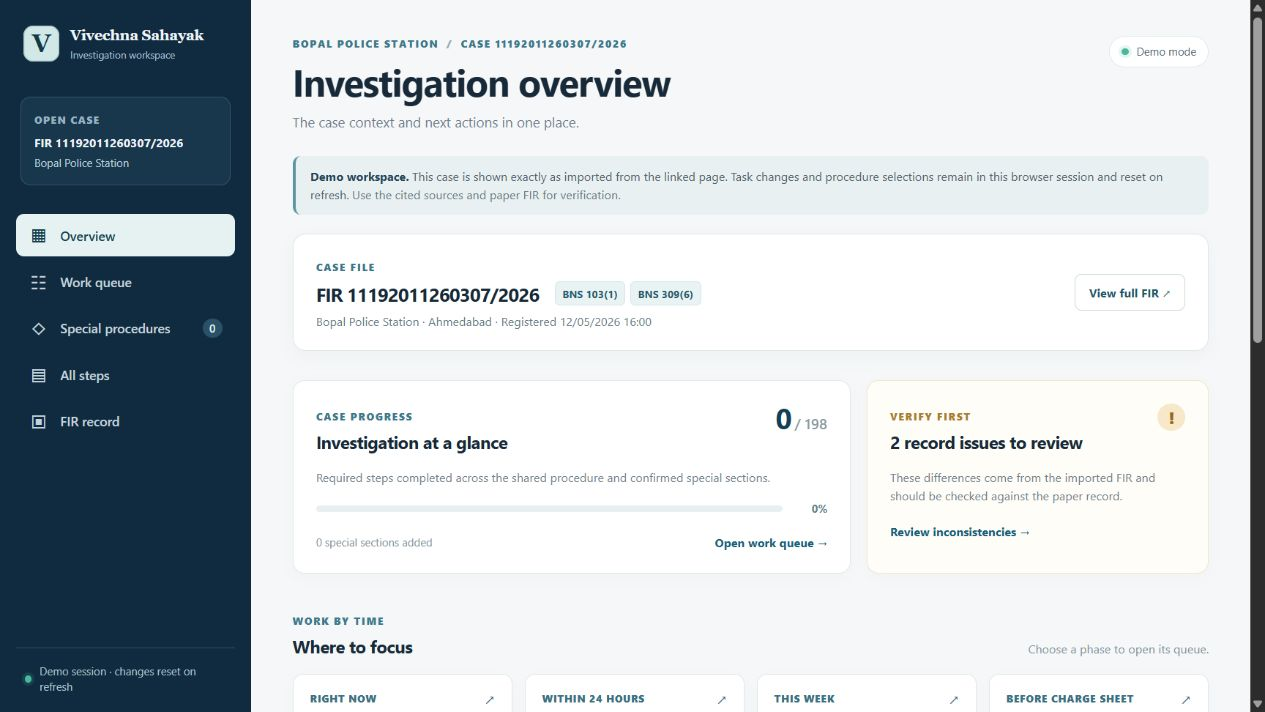
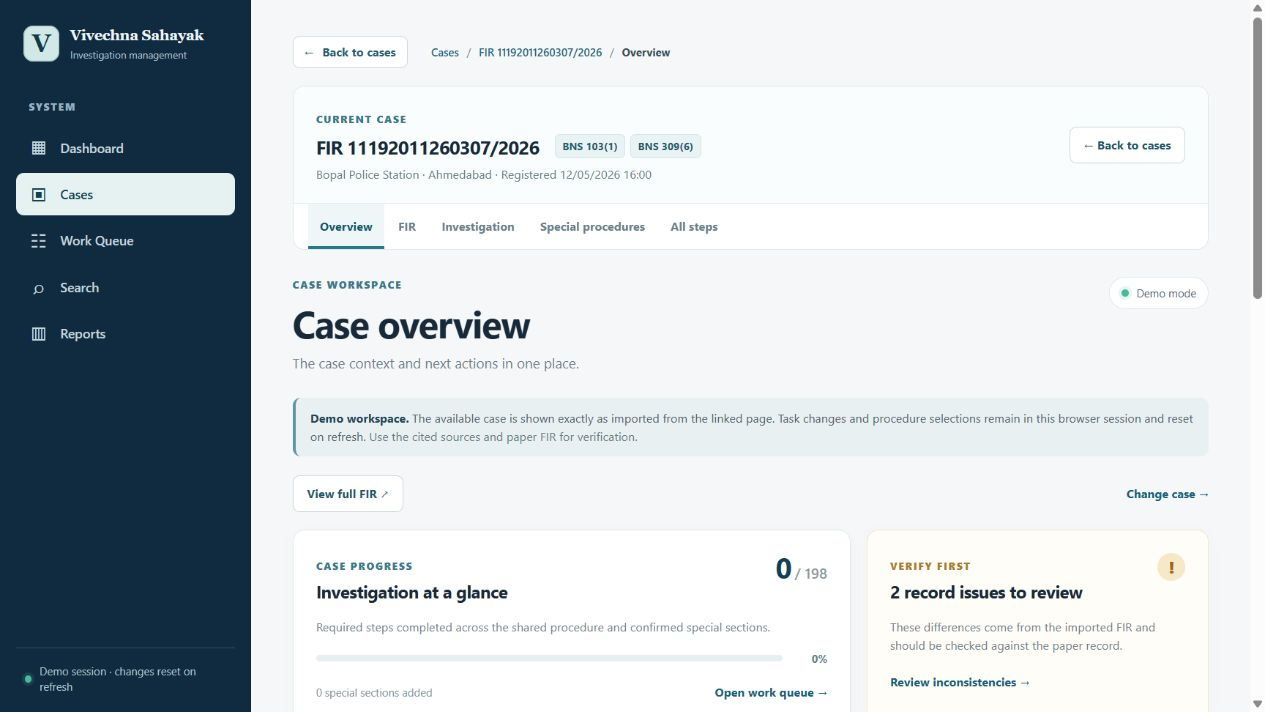
Separate system navigation from the case workspace

diff --git a/src/App.tsx b/src/App.tsx
@@ -1,19 +1,12 @@
-import { useEffect, useMemo, useState } from 'react'
+import { useEffect, useMemo, useRef, useState } from 'react'
 import { adapter, isDemoMode } from './lib/backend'
 import { activeSteps, areaForStep, countByTier, displayTitle, isRobberyStep, MODULES, PHASES, searchableText, suggestedModules, TIERS } from './lib/investigation'
 import type { InvestigationRecord, InvestigationStep, ModuleId, Phase, StepArea, TaskProgress, Tier } from './types'
 
-type View = 'overview' | 'queue' | 'special' | 'library' | 'fir'
+import { CASE_ID, CASE_NAV, SYSTEM_NAV, useNavigation } from './lib/navigation'
+import type { CaseView } from './lib/navigation'
 type DetailTab = 'action' | 'legal' | 'sources'
 
-const CASE_ID = '11192011260307-2026'
-const NAV: { id: View; label: string; icon: string }[] = [
-  { id: 'overview', label: 'Overview', icon: '▦' },
-  { id: 'queue', label: 'Work queue', icon: '☷' },
-  { id: 'special', label: 'Special procedures', icon: '◇' },
-  { id: 'library', label: 'All steps', icon: '▤' },
-  { id: 'fir', label: 'FIR record', icon: '▣' },
-]
 
 function Field({ label, value }: { label: string; value?: string | null }) {
   return <div className="field"><span className="field-label">{label}</span><span className="field-value">{value || 'Not recorded'}</span></div>
@@ -113,10 +106,18 @@ export default function App() {
   const [record, setRecord] = useState<InvestigationRecord | null>(null)
   const [loadError, setLoadError] = useState('')
   const [saveError, setSaveError] = useState('')
-  const [view, setView] = useState<View>('overview')
+  const { route, go, back, backLabel, canGoBack } = useNavigation()
+  const view = route.scope === 'case' ? route.view : null
+  const systemView = route.scope === 'system' ? route.view : null
+  const pageTitle = useRef<HTMLHeadingElement>(null)
+  const [systemQuery, setSystemQuery] = useState('')
+  const [caseQuery, setCaseQuery] = useState('')
   const [phase, setPhase] = useState<Phase>('now')
   const [tier, setTier] = useState<Tier>('MUST_DO')
-  const [query, setQuery] = useState('')
+  const [queueQuery, setQueueQuery] = useState('')
+  const [libraryQuery, setLibraryQuery] = useState('')
+  const query = view === 'library' ? libraryQuery : queueQuery
+  const setQuery = view === 'library' ? setLibraryQuery : setQueueQuery
   const [hideDone, setHideDone] = useState(false)
   const [libraryArea, setLibraryArea] = useState<StepArea | 'all'>('all')
   const [selectedModule, setSelectedModule] = useState<ModuleId>('heinous')
@@ -124,6 +125,7 @@ export default function App() {
   const [busy, setBusy] = useState(false)
 
   useEffect(() => { adapter.load(CASE_ID).then(setRecord).catch((error: Error) => setLoadError(error.message)) }, [])
+  useEffect(() => { pageTitle.current?.focus({ preventScroll: true }) }, [route, record !== null])
   const data = record?.case
   const modules = record?.confirmedModules || []
   const progress = record?.progress || {}
@@ -155,39 +157,72 @@ export default function App() {
     } catch (error) { setSaveError((error as Error).message) } finally { setBusy(false) }
   }
 
-  const navigate = (next: View) => { setView(next); setQuery(''); window.scrollTo({ top: 0, behavior: 'smooth' }) }
+  const navigate = (next: CaseView) => go({ scope: 'case', view: next })
 
   if (loadError) return <div className="boot-state"><div className="boot-card"><h1>Case unavailable</h1><p>{loadError}</p><button type="button" onClick={() => window.location.reload()}>Try again</button></div></div>
   if (!data) return <div className="boot-state"><div className="boot-card"><div className="loading-dot" /><p>Opening investigation workspace…</p></div></div>
 
   const firField = (name: string) => data.fir.fields.find((field) => field.k === name)?.v
   const currentPhase = PHASES.find((item) => item.id === phase)!
+  const activeSystemView = view ? 'cases' : systemView
+  const caseTitles = { overview: 'Case overview', queue: 'Investigation', special: 'Special procedures', library: 'All investigation steps', fir: 'FIR record' }
+  const systemTitles = { dashboard: 'Dashboard', cases: 'Cases', 'work-queue': 'Work Queue', search: 'Search', reports: 'Reports' }
+  const title = view ? caseTitles[view] : systemTitles[systemView!]
+  const subtitle = view
+    ? { overview: 'The case context and next actions in one place.', queue: 'Work through this case’s steps by time and priority.', special: 'Review additional procedures before adding them to this case.', library: 'Search every imported step and its source material.', fir: 'Read the full structured record and original FIR text.' }[view]
+    : { dashboard: 'Your cases and investigation work at a glance.', cases: 'Select a case to enter its investigation workspace.', 'work-queue': 'Investigation work across the available cases.', search: 'Find a case or a procedure in the available records.', reports: 'Progress and record quality across the available cases.' }[systemView!]
+  const searchTerm = (systemView === 'cases' ? caseQuery : systemQuery).toLocaleLowerCase().trim()
+  const caseMatches = !searchTerm || [data.fir.fir_number, data.fir.police_station, ...data.fir.sections_stated, data.fir_text].join(' ').toLocaleLowerCase().includes(searchTerm)
+  const searchSteps = searchTerm ? data.steps.filter((step) => searchableText(step).includes(searchTerm)) : []
+  const doneSteps = caseSteps.filter((step) => progress[step.id]?.done).length
+  const openNow = caseSteps.filter((step) => step.phase === 'now' && step.triage === 'MUST_DO' && !progress[step.id]?.done).length
 
   return <div className="app-shell">
-    <aside className="sidebar"><div className="brand"><div className="brand-mark">V</div><div><strong>Vivechna Sahayak</strong><small>Investigation workspace</small></div></div><div className="sidebar-case"><small>OPEN CASE</small><strong>FIR {data.fir.fir_number}</strong><span>{data.fir.police_station}</span></div><nav aria-label="Main navigation">{NAV.map((item) => <button key={item.id} className={view === item.id ? 'active' : ''} type="button" onClick={() => navigate(item.id)}><span className="nav-icon" aria-hidden="true">{item.icon}</span>{item.label}{item.id === 'special' && <span className="nav-badge">{modules.length}</span>}</button>)}</nav><div className="sidebar-bottom"><span className="status-dot" />{isDemoMode ? 'Demo session · changes reset on refresh' : 'Connected to case service'}</div></aside>
+    <aside className="sidebar"><div className="brand"><div className="brand-mark">V</div><div><strong>Vivechna Sahayak</strong><small>Investigation management</small></div></div><p className="sidebar-label">SYSTEM</p><nav aria-label="System navigation">{SYSTEM_NAV.map((item) => <button key={item.id} className={activeSystemView === item.id ? 'active' : ''} aria-current={activeSystemView === item.id ? 'page' : undefined} type="button" onClick={() => go({ scope: 'system', view: item.id })}><span className="nav-icon" aria-hidden="true">{item.icon}</span>{item.label}</button>)}</nav><div className="sidebar-bottom"><span className="status-dot" />{isDemoMode ? 'Demo session · changes reset on refresh' : 'Connected to case service'}</div></aside>
 
     <div className="main-shell"><header className="mobile-header"><div className="brand-mark">V</div><strong>Vivechna Sahayak</strong><span>{isDemoMode ? 'DEMO' : 'LIVE'}</span></header><main className="page">
-      <div className="page-heading"><div><p className="eyebrow">BOPAL POLICE STATION <span> / </span> CASE {data.fir.fir_number}</p><h1>{view === 'overview' ? 'Investigation overview' : view === 'queue' ? 'Work queue' : view === 'special' ? 'Special procedures' : view === 'library' ? 'All investigation steps' : 'FIR record'}</h1><p className="heading-subtitle">{view === 'overview' ? 'The case context and next actions in one place.' : view === 'queue' ? 'Work through the steps by time and priority.' : view === 'special' ? 'Review additional procedures before adding them to this case.' : view === 'library' ? 'Search every imported step and its source material.' : 'Read the full structured record and original FIR text.'}</p></div><div className="top-status"><span className="status-dot" />{isDemoMode ? 'Demo mode' : 'Connected'}</div></div>
-      {isDemoMode && <div className="demo-banner"><strong>Demo workspace.</strong> This case is shown exactly as imported from the linked page. Task changes and procedure selections remain in this browser session and reset on refresh. <span>Use the cited sources and paper FIR for verification.</span></div>}
+      <div className="navigation-bar">{(view || canGoBack) && <button type="button" className="back-button" onClick={back}><span aria-hidden="true">←</span> Back to {backLabel}</button>}{view && <nav className="breadcrumbs" aria-label="Breadcrumb"><button type="button" onClick={() => go({ scope: 'system', view: 'cases' })}>Cases</button><span aria-hidden="true">/</span><button type="button" onClick={() => navigate('overview')}>FIR {data.fir.fir_number}</button><span aria-hidden="true">/</span><span aria-current="page">{CASE_NAV.find((item) => item.id === view)?.label}</span></nav>}</div>
+      {view && <div className="case-workspace"><section className="case-header"><div className="case-main"><span className="section-label">CURRENT CASE</span><div className="case-title-line"><h2>FIR {data.fir.fir_number}</h2><div className="section-chips">{data.fir.sections_stated.map((section) => <span key={section}>{section}</span>)}</div></div><p>{data.fir.police_station} · {firField('District')} · Registered {firField('Date & time FIR registered')}</p></div><div className="case-actions"><button type="button" className="outline-button" onClick={() => go({ scope: 'system', view: 'cases' })}>← Back to cases</button></div></section><nav className="case-nav" aria-label="Case navigation">{CASE_NAV.map((item) => <button type="button" key={item.id} aria-label={item.label} className={view === item.id ? 'selected' : ''} aria-current={view === item.id ? 'page' : undefined} onClick={() => navigate(item.id)}>{item.label}{item.id === 'special' && modules.length > 0 && <span>{modules.length}</span>}</button>)}</nav></div>}
+      <div className="page-heading"><div><p className="eyebrow">{view ? 'CASE WORKSPACE' : 'VIVECHNA SAHAYAK / SYSTEM'}</p><h1 ref={pageTitle} tabIndex={-1}>{title}</h1><p className="heading-subtitle">{subtitle}</p></div><div className="top-status"><span className="status-dot" />{isDemoMode ? 'Demo mode' : 'Connected'}</div></div>
+      {isDemoMode && <div className="demo-banner"><strong>Demo workspace.</strong> The available case is shown exactly as imported from the linked page. Task changes and procedure selections remain in this browser session and reset on refresh. <span>Use the cited sources and paper FIR for verification.</span></div>}
       {saveError && <div className="error-banner" role="alert"><strong>Change was not saved.</strong> {saveError}<button type="button" onClick={() => setSaveError('')}>Dismiss</button></div>}
 
-      <section className="case-header"><div className="case-main"><span className="section-label">CASE FILE</span><div className="case-title-line"><h2>FIR {data.fir.fir_number}</h2><div className="section-chips">{data.fir.sections_stated.map((section) => <span key={section}>{section}</span>)}</div></div><p>{data.fir.police_station} · {firField('District')} · Registered {firField('Date & time FIR registered')}</p></div><div className="case-actions"><button type="button" className="outline-button" onClick={() => navigate('fir')}>View full FIR <span aria-hidden="true">↗</span></button></div></section>
+      {!view && <p className="dataset-note">{isDemoMode ? 'Demo data: one imported case is available.' : 'One case is available through the current case adapter.'}</p>}
+
+      {systemView === 'dashboard' && <>
+        <div className="system-metrics">
+          <button type="button" onClick={() => go({ scope: 'system', view: 'cases' })}><span>Available cases</span><strong>1</strong><small>Browse cases →</small></button>
+          <button type="button" onClick={() => go({ scope: 'system', view: 'work-queue' })}><span>Required right now</span><strong>{openNow}</strong><small>Open Work Queue →</small></button>
+          <button type="button" onClick={() => navigate('fir')}><span>Record issues to review</span><strong>{warnings.length - reviewedWarnings.size}</strong><small>Review case record →</small></button>
+        </div>
+        <section className="section-block"><div className="section-heading"><div><span className="section-label">AVAILABLE CASES</span><h2>Continue an investigation</h2></div><button type="button" className="text-button" onClick={() => go({ scope: 'system', view: 'cases' })}>View cases →</button></div><div className="case-list-card"><div><span className="section-label">FIR</span><h2>{data.fir.fir_number}</h2><p>{data.fir.police_station} · {data.fir.sections_stated.join(' · ')}</p><ProgressBar done={doneMustDo} total={mustDo.length} /></div><button type="button" className="primary-button" onClick={() => navigate('overview')}>Open case →</button></div></section>
+      </>}
+
+      {systemView === 'cases' && <section className="section-block first-block"><div className="filter-bar"><div className="search-wrap"><span aria-hidden="true">⌕</span><input aria-label="Find a case" placeholder="Find by FIR, station, offence or record text…" value={caseQuery} onChange={(event) => setCaseQuery(event.target.value)} /></div><span className="result-count">{caseMatches ? 1 : 0} case found</span></div>{caseMatches ? <div className="case-list-card"><div><span className="section-label">FIR</span><h2>{data.fir.fir_number}</h2><p>{data.fir.police_station} · {firField('District')}</p><div className="section-chips">{data.fir.sections_stated.map((section) => <span key={section}>{section}</span>)}</div><p className="case-list-meta">{openNow} required right-now steps · {warnings.length - reviewedWarnings.size} record issues</p></div><button type="button" className="primary-button" onClick={() => navigate('overview')}>Open case →</button></div> : <div className="empty-state"><strong>No case matches your search.</strong><p>Try another FIR number, police station or offence.</p></div>}</section>}
+
+      {systemView === 'work-queue' && <div className="queue-case-context"><div><span className="section-label">WORK FROM CASE</span><strong>FIR {data.fir.fir_number}</strong><span>{data.fir.police_station}</span></div><button type="button" className="outline-button" onClick={() => navigate('queue')}>Open case investigation →</button></div>}
+
+      {systemView === 'search' && <section className="section-block first-block"><div className="filter-bar"><div className="search-wrap"><span aria-hidden="true">⌕</span><input aria-label="Search cases and procedures" placeholder="Search FIR, offence, procedure or legal source…" value={systemQuery} onChange={(event) => setSystemQuery(event.target.value)} /></div></div>{!searchTerm ? <div className="empty-state"><strong>Search cases and investigation procedures.</strong><p>Enter a FIR number, station, offence, task or legal section.</p></div> : <><div className="section-heading"><h2>Cases</h2><span className="result-count">{caseMatches ? 1 : 0} matching case</span></div>{caseMatches ? <div className="case-list-card"><div><h2>FIR {data.fir.fir_number}</h2><p>{data.fir.police_station}</p></div><button type="button" className="primary-button" onClick={() => navigate('fir')}>Open FIR →</button></div> : <p className="muted">No matching case record.</p>}<div className="section-heading search-results-heading"><div><h2>Procedure results</h2><p>Source library for FIR {data.fir.fir_number}</p></div><span className="result-count">{searchSteps.length} matching steps</span></div><StepResults key={searchTerm} steps={searchSteps} progress={progress} onProgress={saveProgress} editable={() => false} limit={20} /></>}</section>}
+
+      {systemView === 'reports' && <><section className="panel"><div className="panel-head"><div><span className="section-label">AVAILABLE CASE SUMMARY</span><h2>Investigation progress</h2></div><span className="metric-large">{doneSteps}<small> / {caseSteps.length}</small></span></div><p className="muted">Completed active steps across the available case and confirmed special procedures.</p><ProgressBar done={doneSteps} total={caseSteps.length} /><div className="report-rows">{PHASES.map((item) => { const steps = caseSteps.filter((step) => step.phase === item.id); return <div key={item.id}><span>{item.label}</span><strong>{steps.filter((step) => progress[step.id]?.done).length} / {steps.length} completed</strong></div> })}</div></section><section className="section-block"><div className="section-heading"><h2>Case report</h2></div><div className="case-list-card"><div><h2>FIR {data.fir.fir_number}</h2><p>{data.fir.police_station}</p><p>{doneMustDo} of {mustDo.length} required steps completed · {modules.length} special sections confirmed · {warnings.length - reviewedWarnings.size} open record issues</p></div><button type="button" className="outline-button" onClick={() => navigate('overview')}>View case →</button></div></section></>}
 
       {view === 'overview' && <>
+        <div className="case-overview-actions"><button type="button" className="outline-button" onClick={() => navigate('fir')}>View full FIR ↗</button><button type="button" className="text-button" onClick={() => go({ scope: 'system', view: 'cases' })}>Change case →</button></div>
         <div className="overview-grid"><section className="panel progress-panel"><div className="panel-head"><div><span className="section-label">CASE PROGRESS</span><h2>Investigation at a glance</h2></div><span className="metric-large">{doneMustDo}<small> / {mustDo.length}</small></span></div><p className="muted">Required steps completed across the shared procedure and confirmed special sections.</p><ProgressBar done={doneMustDo} total={mustDo.length} /><div className="progress-foot"><span>{modules.length} special sections added</span><button type="button" className="text-button" onClick={() => navigate('queue')}>Open work queue →</button></div></section><section className="panel alert-panel"><div className="panel-head"><div><span className="section-label amber">VERIFY FIRST</span><h2>{warnings.length - reviewedWarnings.size} record {warnings.length - reviewedWarnings.size === 1 ? 'issue' : 'issues'} to review</h2></div><div className="alert-symbol">!</div></div><p className="muted">These differences come from the imported FIR and should be checked against the paper record.</p><button type="button" className="text-button" onClick={() => navigate('fir')}>Review inconsistencies →</button></section></div>
         <section className="section-block"><div className="section-heading"><div><span className="section-label">WORK BY TIME</span><h2>Where to focus</h2></div><p>Choose a phase to open its queue.</p></div><div className="phase-grid">{PHASES.map((item) => { const phaseMust = caseSteps.filter((step) => step.phase === item.id && step.triage === 'MUST_DO'); const phaseDone = phaseMust.filter((step) => progress[step.id]?.done).length; return <button type="button" className="phase-card" key={item.id} onClick={() => { setPhase(item.id); setTier('MUST_DO'); navigate('queue') }}><span className="phase-card-top"><span>{item.label}</span><span aria-hidden="true">↗</span></span><strong>{phaseMust.length - phaseDone}<small> open</small></strong><span>{item.description}</span><span className="phase-mini-bar"><i style={{ width: `${phaseMust.length ? phaseDone / phaseMust.length * 100 : 0}%` }} /></span></button> })}</div></section>
         <section className="section-block"><div className="section-heading"><div><span className="section-label">NEXT ACTIONS</span><h2>Required right now</h2></div><button type="button" className="text-button" onClick={() => { setPhase('now'); setTier('MUST_DO'); navigate('queue') }}>See all right-now steps →</button></div><div className="step-list overview-steps">{caseSteps.filter((step) => step.phase === 'now' && step.triage === 'MUST_DO' && !progress[step.id]?.done).slice(0, 3).map((step) => <StepCard compact key={step.id} step={step} progress={progress[step.id]} onProgress={saveProgress} />)}</div></section>
         <section className="section-block"><div className="section-heading"><div><span className="section-label">ADDITIONAL PROCEDURE</span><h2>Review for this case</h2></div><button type="button" className="text-button" onClick={() => navigate('special')}>Open special sections →</button></div><div className="module-grid">{MODULES.map((module) => <button type="button" className="module-tile" key={module.id} onClick={() => { setSelectedModule(module.id); navigate('special') }}><span className="module-icon">{module.id === 'heinous' ? 'H' : module.id === 'murder' ? 'M' : 'T'}</span><strong>{module.label}</strong><span>{modules.includes(module.id) ? 'Added to queue' : suggestions.includes(module.id) ? 'Suggested · review needed' : 'Available to review'}</span><span className="module-arrow">→</span></button>)}</div></section>
       </>}
 
-      {view === 'queue' && <><section className="section-block first-block"><div className="section-heading"><div><span className="section-label">ACTIVE CASE</span><h2>Investigation queue</h2></div><span className="result-count">{caseSteps.length} active steps</span></div><div className="phase-tabs" role="tablist" aria-label="Investigation phase">{PHASES.map((item) => { const count = caseSteps.filter((step) => step.phase === item.id && step.triage === tier).length; return <button key={item.id} role="tab" type="button" aria-selected={phase === item.id} className={phase === item.id ? 'selected' : ''} onClick={() => setPhase(item.id)}><span>{item.label}</span><strong>{count}</strong></button> })}</div><div className="filter-bar"><div className="search-wrap"><span aria-hidden="true">⌕</span><input aria-label="Search active steps" placeholder="Search steps, source or owner…" value={query} onChange={(event) => setQuery(event.target.value)} /></div><div className="tier-switch" role="group" aria-label="Priority">{TIERS.map((item) => <button key={item.id} type="button" className={tier === item.id ? 'selected' : ''} aria-pressed={tier === item.id} onClick={() => setTier(item.id)}>{item.label}</button>)}</div><label className="hide-toggle"><input type="checkbox" checked={hideDone} onChange={(event) => setHideDone(event.target.checked)} /> Hide done</label></div><div className="queue-summary"><div><strong>{currentPhase.label}</strong><span>{currentPhase.description}</span></div><span>{queueSteps.length} {tier.toLowerCase().replace('_', ' ')} steps shown</span></div><StepResults steps={queueSteps} progress={progress} onProgress={saveProgress} editable={() => !busy} group /></section></>}
+      {(view === 'queue' || systemView === 'work-queue') && <><section className="section-block first-block"><div className="section-heading"><div><span className="section-label">{view ? 'ACTIVE CASE' : 'AVAILABLE INVESTIGATION WORK'}</span><h2>Investigation queue</h2></div><span className="result-count">{caseSteps.length} active steps</span></div><div className="phase-tabs" role="tablist" aria-label="Investigation phase">{PHASES.map((item) => { const count = caseSteps.filter((step) => step.phase === item.id && step.triage === tier).length; return <button key={item.id} role="tab" type="button" aria-selected={phase === item.id} className={phase === item.id ? 'selected' : ''} onClick={() => setPhase(item.id)}><span>{item.label}</span><strong>{count}</strong></button> })}</div><div className="filter-bar"><div className="search-wrap"><span aria-hidden="true">⌕</span><input aria-label="Search active steps" placeholder="Search steps, source or owner…" value={query} onChange={(event) => setQuery(event.target.value)} /></div><div className="tier-switch" role="group" aria-label="Priority">{TIERS.map((item) => <button key={item.id} type="button" className={tier === item.id ? 'selected' : ''} aria-pressed={tier === item.id} onClick={() => setTier(item.id)}>{item.label}</button>)}</div><label className="hide-toggle"><input type="checkbox" checked={hideDone} onChange={(event) => setHideDone(event.target.checked)} /> Hide done</label></div><div className="queue-summary"><div><strong>{currentPhase.label}</strong><span>{currentPhase.description}</span></div><span>{queueSteps.length} {tier.toLowerCase().replace('_', ' ')} steps shown</span></div><StepResults steps={queueSteps} progress={progress} onProgress={saveProgress} editable={() => !busy} group /></section></>}
 
       {view === 'special' && <><section className="section-block first-block"><div className="section-heading"><div><span className="section-label">CRIME-SPECIFIC WORK</span><h2>Additional steps, kept separate</h2></div></div><p className="section-intro">The shared queue covers general investigation work. Review each extra section below and add it to this case only when it applies. The source case suggests sections from its stated offences; confirmation remains with the investigator.</p><div className="special-tabs" role="tablist" aria-label="Special procedure">{MODULES.map((module) => <button key={module.id} type="button" role="tab" aria-selected={selectedModule === module.id} className={selectedModule === module.id ? 'selected' : ''} onClick={() => setSelectedModule(module.id)}><span>{module.label}</span>{modules.includes(module.id) && <span className="selected-dot" />}</button>)}</div><div className="module-detail"><div className="module-detail-top"><div><span className="section-label">{modules.includes(selectedModule) ? 'CONFIRMED FOR CASE' : suggestions.includes(selectedModule) ? 'SUGGESTED FROM FIR · NEEDS CONFIRMATION' : 'AVAILABLE TO REVIEW'}</span><h2>{MODULES.find((module) => module.id === selectedModule)?.label}</h2><p>{MODULES.find((module) => module.id === selectedModule)?.description}</p></div><button type="button" className={modules.includes(selectedModule) ? 'outline-button' : 'primary-button'} disabled={busy} onClick={() => toggleModule(selectedModule)}>{modules.includes(selectedModule) ? 'Remove from queue' : 'Add to this case'}</button></div>{selectedModule === 'heinous' && <div className="linked-note"><strong>Linked shared step:</strong> The imported “Draw and Annotate the Crime Scene Sketch” step includes a to-scale instruction for heinous crimes. It remains in the shared queue so its ordinary scene-sketch work is not duplicated.</div>}{selectedModule === 'theft' && <div className="linked-note"><strong>Robbery in this FIR:</strong> Robbery-specific steps are marked “Robbery” within this section. Confirm each step’s applicability to the case before acting.</div>}<div className="module-count"><strong>{specialSteps.length} source-linked additional steps</strong><span>{modules.includes(selectedModule) ? 'Included in the active queue' : 'Preview only until confirmed'}</span></div><StepResults steps={specialSteps} progress={progress} onProgress={saveProgress} editable={() => modules.includes(selectedModule) && !busy} limit={25} /></div></section></>}
 
       {view === 'library' && <section className="section-block first-block"><div className="section-heading"><div><span className="section-label">COMPLETE SOURCE LIBRARY</span><h2>All {data.steps.length} imported steps</h2></div><span className="result-count">{countByTier(data.steps).MUST_DO} must do · {countByTier(data.steps).SHOULD_DO} should do · {countByTier(data.steps).REFERENCE} reference</span></div><p className="section-intro">Every imported step remains here, including material for other crime types. Only shared steps and confirmed special sections enter the active queue.</p><div className="filter-bar library-filters"><div className="search-wrap"><span aria-hidden="true">⌕</span><input aria-label="Search all steps" placeholder="Search title, section, source or text…" value={query} onChange={(event) => setQuery(event.target.value)} /></div><select aria-label="Filter by section" value={libraryArea} onChange={(event) => setLibraryArea(event.target.value as StepArea | 'all')}><option value="all">Every section</option><option value="core">Shared procedure</option>{MODULES.map((module) => <option key={module.id} value={module.id}>{module.label}</option>)}<option value="library">Other source material</option></select><label className="hide-toggle"><input type="checkbox" checked={hideDone} onChange={(event) => setHideDone(event.target.checked)} /> Hide done</label></div><div className="queue-summary"><strong>{librarySteps.length} matching steps</strong><span>Showing {Math.min(librarySteps.length, 40)} initially</span></div><StepResults steps={librarySteps} progress={progress} onProgress={saveProgress} editable={(step) => areaForStep(step) === 'core' || modules.includes(areaForStep(step) as ModuleId)} /></section>}
 
       {view === 'fir' && <><section className="section-block first-block"><div className="section-heading"><div><span className="section-label">RECORD QUALITY</span><h2>Check before relying on this record</h2></div><span className="result-count">{warnings.length - reviewedWarnings.size} open</span></div><WarningList warnings={warnings} reviewed={reviewedWarnings} onToggle={(index) => setReviewedWarnings((old) => { const next = new Set(old); if (next.has(index)) next.delete(index); else next.add(index); return next })} /><p className="section-hint">“Mark checked” is a local review marker. It does not alter or correct the FIR.</p></section><section className="section-block"><div className="section-heading"><div><span className="section-label">STRUCTURED FIR</span><h2>Case details</h2></div></div><div className="fir-grid">{data.fir.fields.map((field, index) => <div className="fir-field" key={`${field.k}-${index}`}><span>{field.k}</span><strong>{field.v}</strong></div>)}</div></section><section className="section-block"><div className="section-heading"><div><span className="section-label">CASE NARRATIVE</span><h2>What the FIR states</h2></div></div><div className="panel narrative-panel"><p>{data.fir.narrative_summary}</p><details><summary>Read original FIR text</summary><pre>{data.fir_text}</pre></details></div></section></>}
+      {view && <div className="case-return"><button type="button" className="back-button" onClick={back}>← Back to {backLabel}</button><button type="button" className="text-button" onClick={() => go({ scope: 'system', view: 'cases' })}>Back to cases →</button></div>}
     </main><footer className="page-footer"><span>Vivechna Sahayak · {isDemoMode ? 'Local prototype' : 'Connected workspace'}</span><span>Source citations and case facts should be verified before operational use.</span></footer></div>
-    <nav className="mobile-nav" aria-label="Mobile navigation">{NAV.map((item) => <button type="button" key={item.id} className={view === item.id ? 'active' : ''} onClick={() => navigate(item.id)}><span aria-hidden="true">{item.icon}</span><small>{item.id === 'special' ? 'Special' : item.id === 'library' ? 'All steps' : item.id === 'fir' ? 'FIR' : item.label}</small></button>)}</nav>
+    <nav className="mobile-nav" aria-label="Mobile system navigation">{SYSTEM_NAV.map((item) => <button type="button" key={item.id} className={activeSystemView === item.id ? 'active' : ''} aria-current={activeSystemView === item.id ? 'page' : undefined} onClick={() => go({ scope: 'system', view: item.id })}><span aria-hidden="true">{item.icon}</span><small>{item.label}</small></button>)}</nav>
   </div>
 }

diff --git a/src/styles.css b/src/styles.css
@@ -1,6 +1,6 @@
 :root{font-family:Inter,"Segoe UI",Arial,sans-serif;color:#182a39;background:#f5f7f8;font-synthesis:none;text-rendering:optimizeLegibility;-webkit-font-smoothing:antialiased}
 *{box-sizing:border-box}
-body{margin:0;min-width:320px}
+body{margin:0;min-width:0}
 button,input,select{font:inherit}
 button{cursor:pointer}
 button:disabled,input:disabled{cursor:not-allowed;opacity:.54}
@@ -14,18 +14,11 @@ p{line-height:1.55}
 .brand-mark{width:36px;height:36px;display:grid;place-items:center;border-radius:10px;background:#d2e8e7;color:#123948;font-family:Georgia,serif;font-size:25px;font-weight:700;box-shadow:inset 0 0 0 1px #a7c9c8}
 .brand strong{display:block;font-family:Georgia,serif;font-size:15px;letter-spacing:-.02em}
 .brand small{display:block;color:#a6becb;font-size:10px;margin-top:4px}
-.sidebar-case{margin:36px 5px 29px;padding:15px 13px;border:1px solid #365266;border-radius:10px;background:#18374d}
-.sidebar-case small,.sidebar-case strong,.sidebar-case span{display:block}
-.sidebar-case small{font-size:10px;letter-spacing:.12em;color:#98b1c0;font-weight:800}
-.sidebar-case strong{font-size:12px;line-height:1.4;margin:9px 0 4px}
-.sidebar-case span{font-size:11px;color:#bdd0d8}
 .sidebar nav{display:grid;gap:4px}
 .sidebar nav button{border:0;background:transparent;color:#c3d3dc;display:flex;align-items:center;gap:12px;text-align:left;padding:12px 13px;border-radius:8px;font-size:13px;font-weight:600}
 .sidebar nav button:hover{background:#1c435b}
 .sidebar nav button.active{background:#e6f2f2;color:#103f50}
 .nav-icon{font-size:19px;line-height:1;width:20px;text-align:center;font-weight:300}
-.nav-badge{margin-left:auto;padding:2px 7px;border-radius:20px;background:#2a5267;color:#e7f2f2;font-size:11px}
-.sidebar nav button.active .nav-badge{background:#c9e3e1;color:#184657}
 .sidebar-bottom{margin-top:auto;padding:16px 9px 0;border-top:1px solid #335066;color:#a9c0ca;font-size:11px;display:flex;align-items:center;gap:8px;line-height:1.4}
 .status-dot{display:inline-block;width:7px;height:7px;border-radius:50%;background:#4ab99b;box-shadow:0 0 0 3px rgba(74,185,155,.14);flex:none}
 .main-shell{margin-left:254px;min-height:100vh;display:flex;flex-direction:column}
@@ -292,3 +285,45 @@ p{line-height:1.55}
 }
 .field-label{display:block;font-size:10px;letter-spacing:.07em;text-transform:uppercase;color:#8698a0;font-weight:800}
 .field-value{display:block;margin:4px 0 0;color:#304957}
+.sidebar-label{font-size:10px;font-weight:800;letter-spacing:.14em;color:#98b1c0;margin:38px 13px 12px}
+.navigation-bar{display:flex;flex-wrap:wrap;align-items:center;gap:12px 24px;margin-bottom:18px}
+.navigation-bar:empty{display:none}
+.back-button{display:inline-flex;align-items:center;gap:8px;padding:8px 11px;border:1px solid #cbdadd;border-radius:7px;background:#fff;color:#245d71;font-size:12px;font-weight:700}
+.back-button:hover{background:#eaf3f4}
+.breadcrumbs{display:flex;align-items:center;flex-wrap:wrap;gap:8px;font-size:11px;color:#718893}
+.breadcrumbs button{padding:3px 0;border:0;background:none;color:#24677f;font-weight:600}
+.breadcrumbs button:hover{text-decoration:underline}
+.breadcrumbs [aria-current]{color:#384f5c;font-weight:700}
+.case-workspace{background:#fff;border:1px solid #dfe7e8;border-radius:12px;margin-bottom:28px;overflow:hidden}
+.case-workspace .case-header{border:0;border-radius:0;box-shadow:none;margin:0;background:#fafdfe}
+.case-nav{display:flex;flex-wrap:wrap;gap:2px;padding:0 15px;border-top:1px solid #e4ecee}
+.case-nav button{border:0;border-bottom:3px solid transparent;background:transparent;padding:15px 12px 12px;color:#6a818d;font-size:12px;font-weight:700;white-space:nowrap}
+.case-nav button:hover{background:#f2f7f8;color:#1c6078}
+.case-nav button.selected{border-bottom-color:#237b88;color:#145770;background:#eef6f7}
+.case-nav button span{background:#dfedef;color:#276479;border-radius:20px;font-size:10px;padding:2px 6px;margin-left:7px}
+.page-heading h1:focus{outline:none}
+.dataset-note{font-size:11px;color:#6b828d;margin:0 0 23px}
+.system-metrics{display:grid;grid-template-columns:repeat(3,minmax(0,1fr));gap:15px}
+.system-metrics button{display:flex;flex-direction:column;gap:13px;align-items:flex-start;text-align:left;background:#fff;border:1px solid #dae6e9;border-radius:11px;padding:22px;color:#284958}
+.system-metrics button:hover{border-color:#87b4c1;background:#fbfefe}
+.system-metrics span{font-size:12px;font-weight:700}
+.system-metrics strong{font-size:35px;line-height:1}
+.system-metrics small{font-size:11px;color:#28738a}
+.case-list-card{display:flex;align-items:center;justify-content:space-between;gap:24px;padding:24px;background:#fff;border:1px solid #dfe7e8;border-radius:11px}
+.case-list-card>div{min-width:0;flex:1}
+.case-list-card h2{font-size:19px;overflow-wrap:anywhere;margin:6px 0 9px}
+.case-list-card p{font-size:12px;color:#69808b;margin:6px 0 12px}
+.case-list-card .progress-wrap{max-width:420px;margin-top:20px}
+.case-list-card .case-list-meta{margin-top:14px;margin-bottom:0}
+.queue-case-context{display:flex;align-items:center;justify-content:space-between;gap:16px;padding:18px 20px;background:#fff;border:1px solid #dde7e9;border-radius:10px;margin-bottom:23px}
+.queue-case-context strong,.queue-case-context>div>span{display:block}
+.queue-case-context strong{font-size:14px;margin:5px 0}
+.queue-case-context>div>span:last-child{font-size:11px;color:#728792}
+.search-results-heading{margin-top:32px}
+.case-overview-actions{display:flex;align-items:center;justify-content:space-between;gap:14px;margin-bottom:18px}
+.report-rows{margin-top:23px;display:grid}
+.report-rows>div{display:flex;justify-content:space-between;gap:12px;padding:14px 0;border-top:1px solid #e5ecee;font-size:12px;color:#69808b}
+.report-rows strong{font-weight:600;color:#345563}
+.case-return{display:flex;justify-content:space-between;align-items:center;gap:16px;margin-top:30px;padding-top:20px;border-top:1px solid #dbe6e8}
+@media(max-width:850px){.case-nav{display:grid;grid-template-columns:repeat(3,minmax(0,1fr));padding:0 9px}.case-nav button{white-space:normal}.case-nav button:focus-visible{outline-offset:-4px}}
+@media(max-width:620px){.navigation-bar{gap:10px;margin-bottom:14px}.breadcrumbs{font-size:10px;gap:6px}.case-workspace{margin-bottom:23px}.case-workspace .case-header{padding:15px}.case-nav button{font-size:11px;padding:13px 10px 10px}.system-metrics{grid-template-columns:1fr;gap:9px}.system-metrics button{display:grid;grid-template-columns:1fr auto;gap:6px;padding:17px}.system-metrics strong{grid-column:2;grid-row:1/3;font-size:29px}.case-list-card{align-items:stretch;flex-direction:column;padding:19px;gap:17px}.case-list-card h2{font-size:17px}.case-list-card>button{width:100%}.queue-case-context{align-items:stretch;flex-direction:column;padding:16px}.queue-case-context>button{width:100%}.report-rows>div{font-size:11px}.mobile-nav small{font-size:8px}}

diff --git a/src/lib/navigation.ts b/src/lib/navigation.ts
@@ -1,0 +1,77 @@
+import { useEffect, useState } from 'react'
+
+export type CaseView = 'overview' | 'queue' | 'special' | 'library' | 'fir'
+export type SystemView = 'dashboard' | 'cases' | 'work-queue' | 'search' | 'reports'
+export type Route = { scope: 'system'; view: SystemView } | { scope: 'case'; view: CaseView }
+
+export const CASE_ID = '11192011260307-2026'
+export const SYSTEM_NAV: { id: SystemView; label: string; icon: string }[] = [
+  { id: 'dashboard', label: 'Dashboard', icon: '▦' },
+  { id: 'cases', label: 'Cases', icon: '▣' },
+  { id: 'work-queue', label: 'Work Queue', icon: '☷' },
+  { id: 'search', label: 'Search', icon: '⌕' },
+  { id: 'reports', label: 'Reports', icon: '▥' },
+]
+export const CASE_NAV: { id: CaseView; label: string }[] = [
+  { id: 'overview', label: 'Overview' },
+  { id: 'fir', label: 'FIR' },
+  { id: 'queue', label: 'Investigation' },
+  { id: 'special', label: 'Special procedures' },
+  { id: 'library', label: 'All steps' },
+]
+
+function routePath(route: Route) {
+  return route.scope === 'case' ? `#/cases/${CASE_ID}/${route.view}` : `#/${route.view}`
+}
+
+function readRoute(): Route {
+  const path = window.location.hash.slice(2).split('/')
+  if (path[0] === 'cases' && path[1] === CASE_ID && CASE_NAV.some((item) => item.id === path[2])) {
+    return { scope: 'case', view: path[2] as CaseView }
+  }
+  return { scope: 'system', view: SYSTEM_NAV.some((item) => item.id === path[0]) ? path[0] as SystemView : 'dashboard' }
+}
+
+function routeLabel(route: Route) {
+  return route.scope === 'case'
+    ? `case ${CASE_NAV.find((item) => item.id === route.view)?.label.toLowerCase()}`
+    : SYSTEM_NAV.find((item) => item.id === route.view)!.label.toLowerCase()
+}
+
+interface NavigationState { depth: number; previousLabel?: string; scrollY: number }
+const stateKey = 'vivechnaNavigation'
+
+export function useNavigation() {
+  const [route, setRoute] = useState<Route>(readRoute)
+  const [state, setState] = useState<NavigationState>(() => window.history.state?.[stateKey] || { depth: 0, scrollY: 0 })
+
+  useEffect(() => {
+    if (!window.history.state?.[stateKey]) {
+      window.history.replaceState({ ...window.history.state, [stateKey]: { depth: 0, scrollY: 0 } }, '', routePath(readRoute()))
+    }
+    const restore = () => {
+      const nextState = window.history.state?.[stateKey] || { depth: 0, scrollY: 0 }
+      setRoute(readRoute()); setState(nextState)
+      requestAnimationFrame(() => window.scrollTo({ top: nextState.scrollY, behavior: 'instant' }))
+    }
+    window.addEventListener('popstate', restore)
+    window.addEventListener('hashchange', restore)
+    return () => { window.removeEventListener('popstate', restore); window.removeEventListener('hashchange', restore) }
+  }, [])
+
+  const go = (next: Route) => {
+    if (routePath(next) === routePath(route)) return
+    window.history.replaceState({ ...window.history.state, [stateKey]: { ...state, scrollY: window.scrollY } }, '')
+    const nextState = { depth: state.depth + 1, previousLabel: routeLabel(route), scrollY: 0 }
+    window.history.pushState({ [stateKey]: nextState }, '', routePath(next))
+    setRoute(next); setState(nextState)
+    window.scrollTo({ top: 0, behavior: 'instant' })
+  }
+
+  const back = () => {
+    if (state.depth > 0) window.history.back()
+    else go(route.scope === 'case' && route.view !== 'overview' ? { scope: 'case', view: 'overview' } : { scope: 'system', view: 'cases' })
+  }
+
+  return { route, go, back, backLabel: state.previousLabel || (route.scope === 'case' && route.view !== 'overview' ? 'case overview' : 'cases'), canGoBack: state.depth > 0 }
+}

diff --git a/README.md b/README.md
@@ -27,6 +27,8 @@ Use `pnpm build` for a production bundle and `pnpm test` for the data and adapte
 
 ## What to review
 
+System navigation stays in the sidebar (or the mobile bottom bar): Dashboard, Cases, Work Queue, Search, and Reports. The demo contains one case. Opening it displays the current FIR and case tabs in the main area, with breadcrumbs and a return to the case list. The on-screen Back controls and browser Back/Forward return to previous views; hash URLs preserve the selected page on refresh. Queue and library searches remain separate and stay in memory when moving between pages.
+
 - **Overview:** compact case context, record warnings, progress, and immediate actions.
 - **Work queue:** phase, priority, search, grouped tasks, checklist, legal basis, and sources.
 - **Special procedures:** separate Heinous Crime, Murder, and Theft additions. Add a section to the case only after reviewing it. Robbery steps within Theft are labelled.
